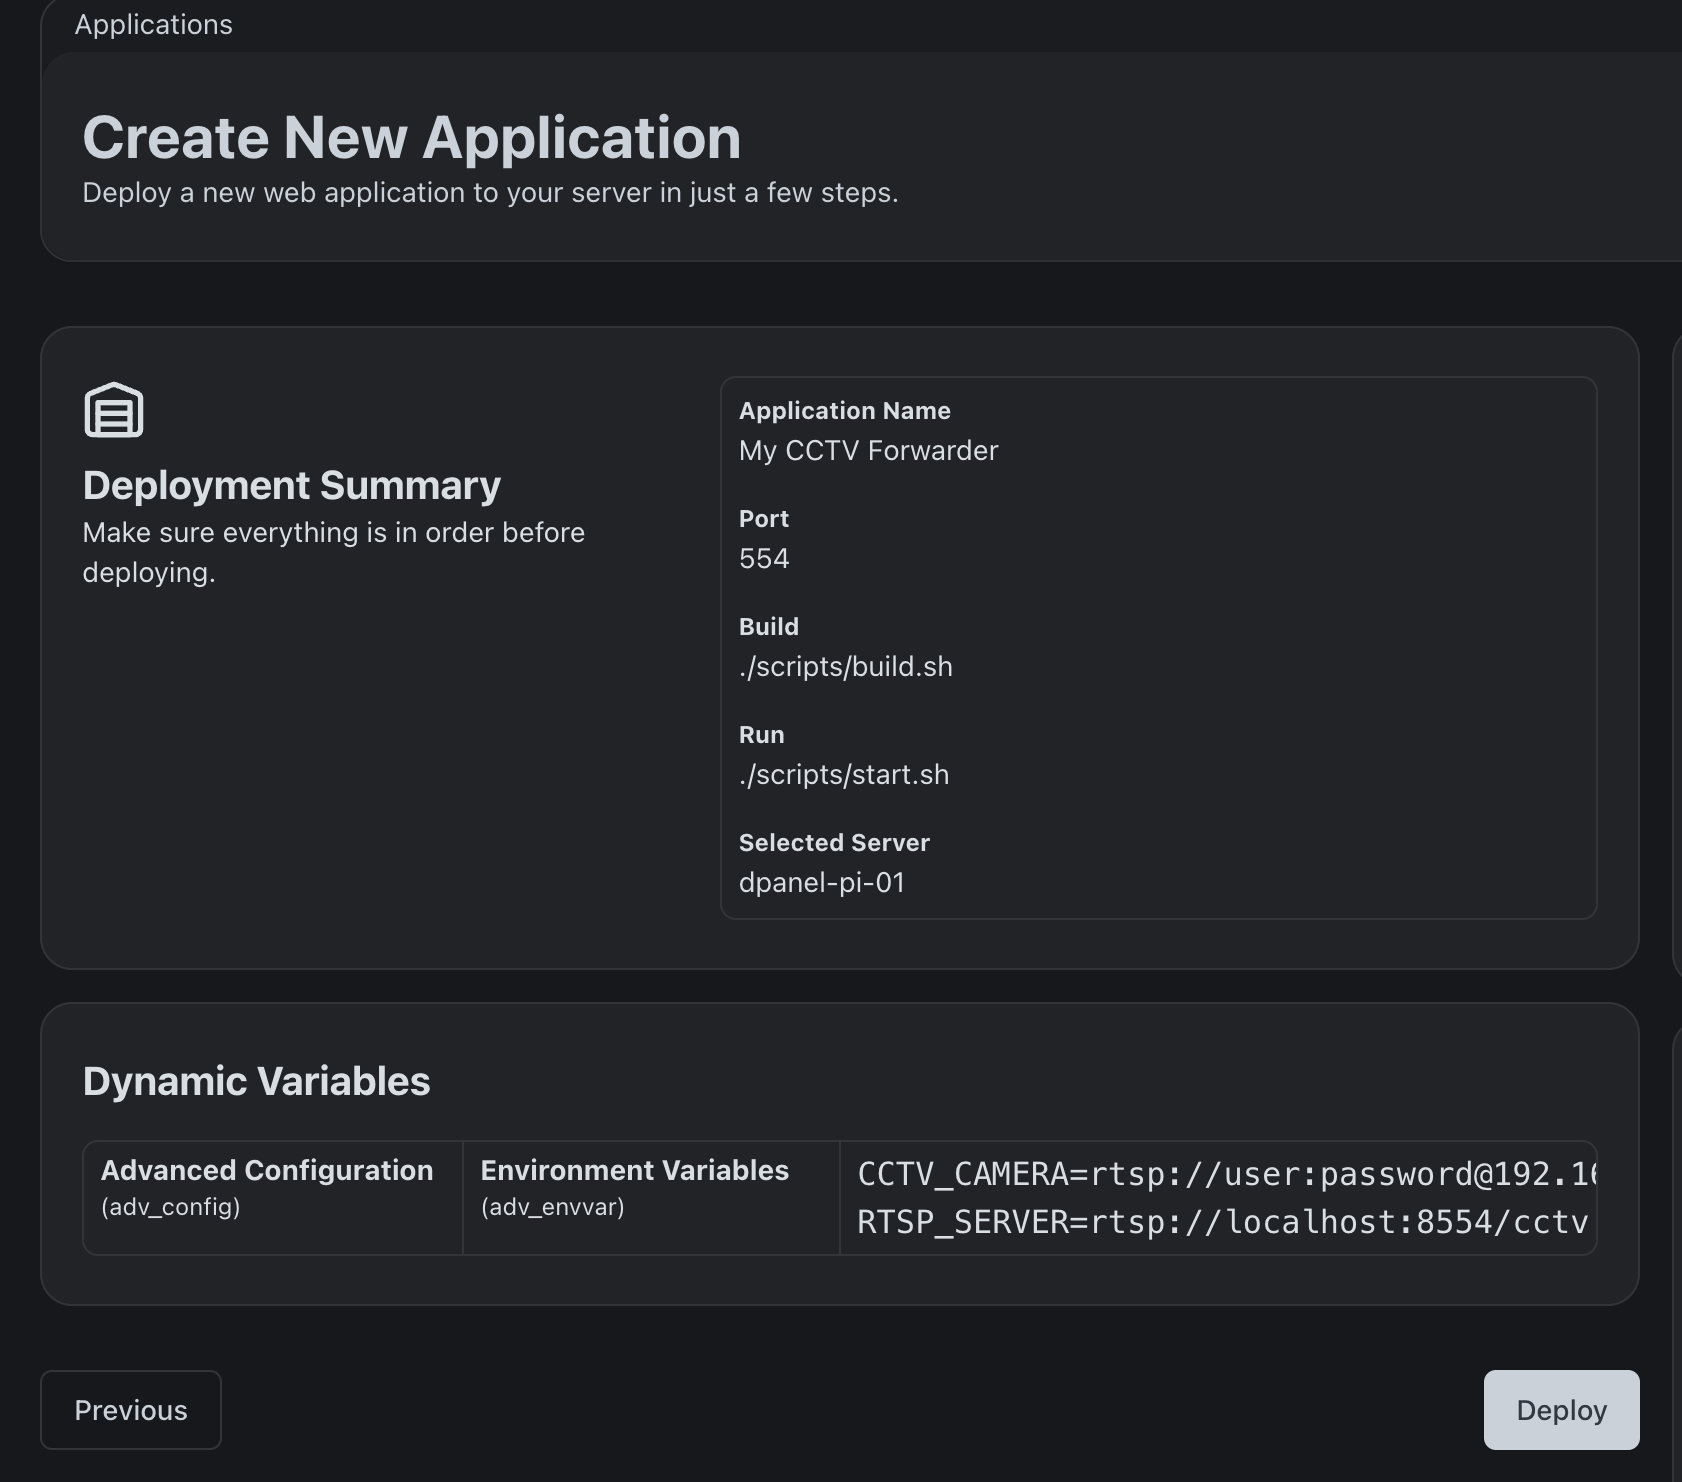
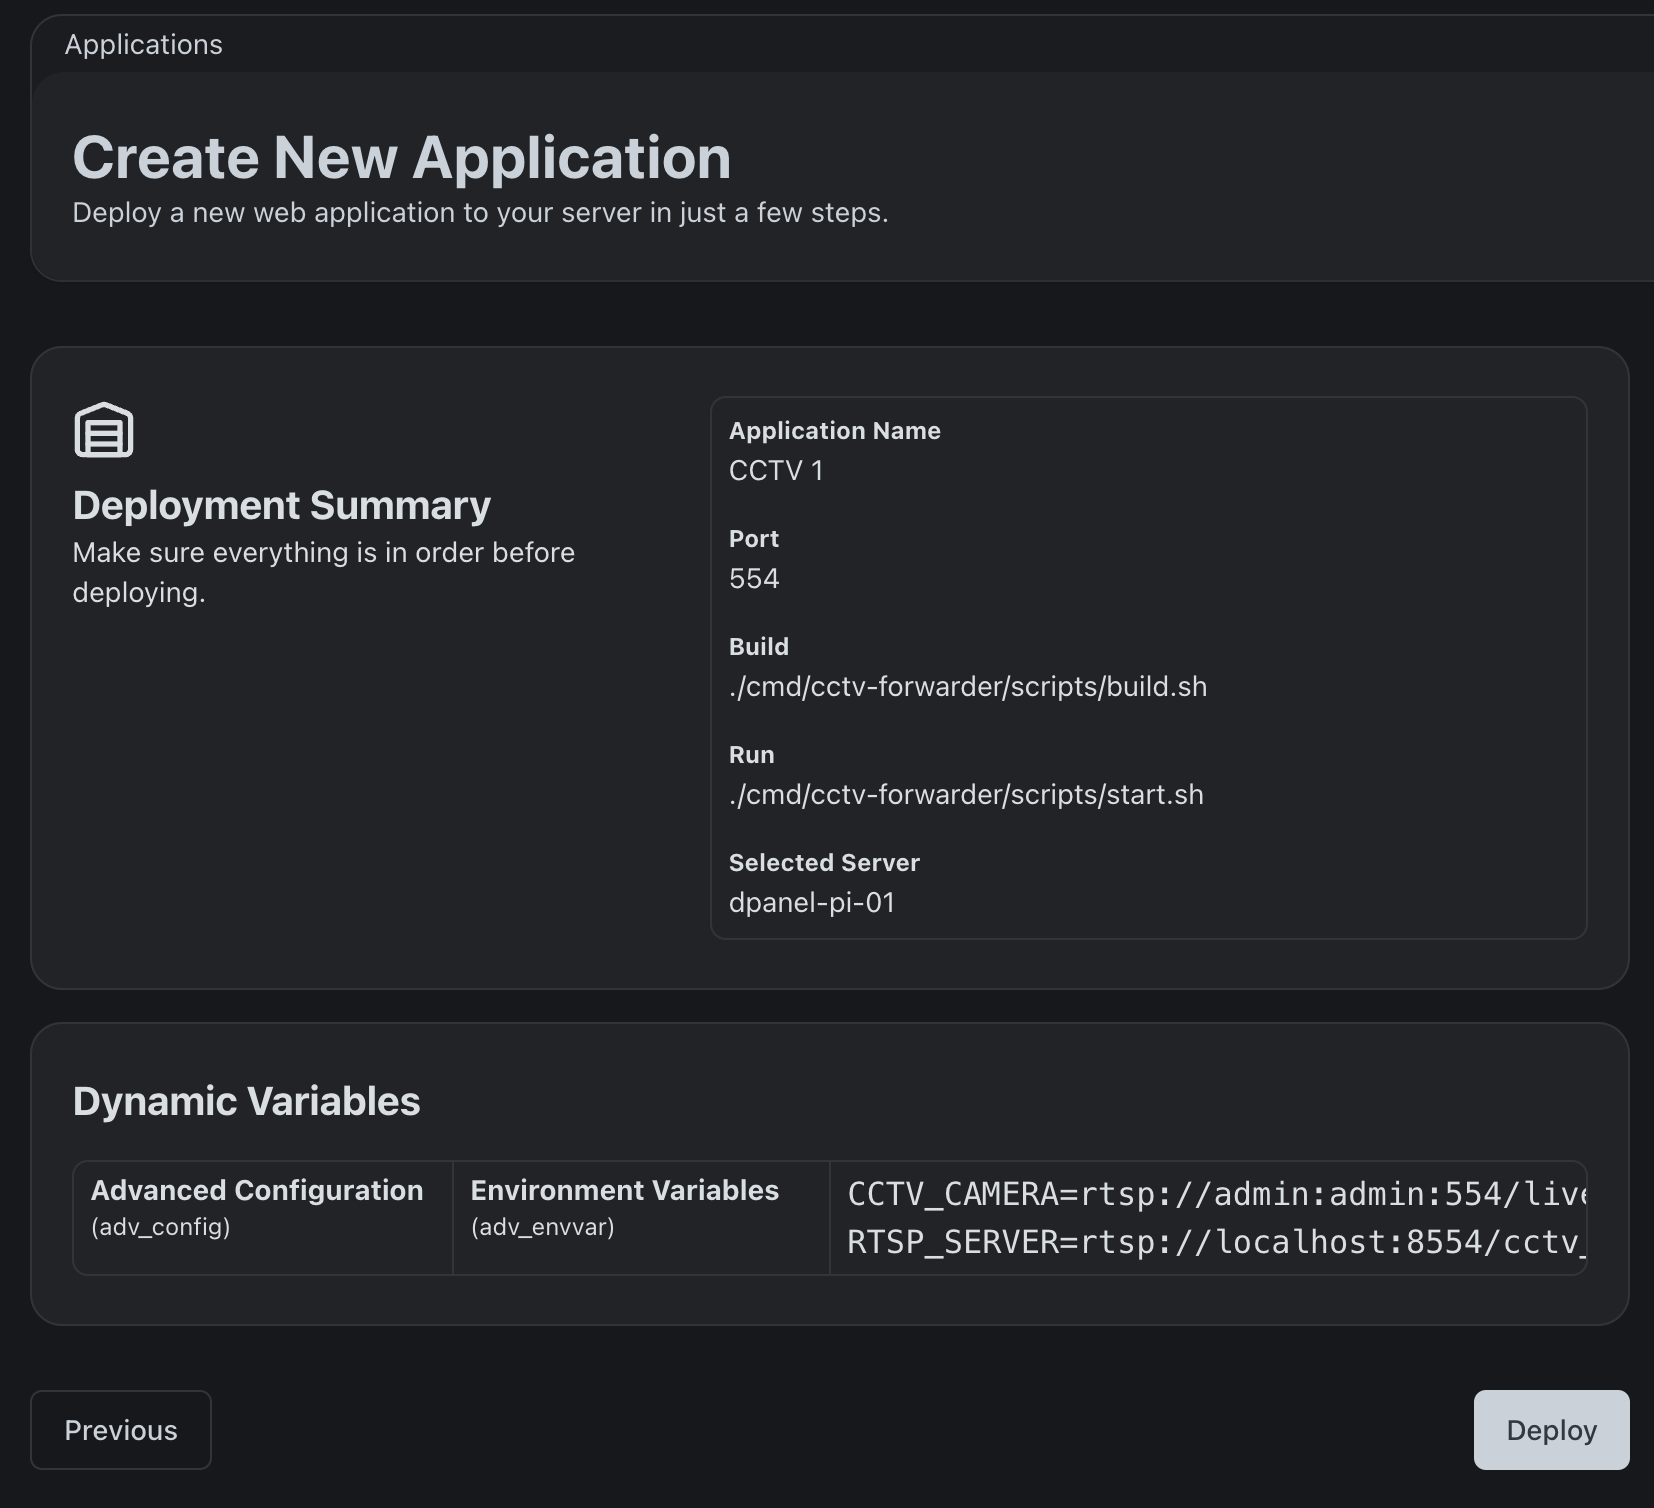
docs: completing document

diff --git a/README.md b/README.md
@@ -8,15 +8,33 @@ Forward CCTV stream to RTSP server with FFMPEG, and expose it with MediaMTX.
 
 ## Installation
 1. Register dPanel account at [https://cloud.terpusat.com/](https://cloud.terpusat.com/).
-2. Create a new application at [https://cloud.terpusat.com/application](https://cloud.terpusat.com/application).
-3. Select this repository as the application source.
+2. Create application for each components at [https://cloud.terpusat.com/application](https://cloud.terpusat.com/application).
+3. Select this repository as source for each component (**Media Server, CCTV Camera, CCTV Dashboard**).
 ![Application Source](assets/select-repo.png)
-4. Set the application data follow the image below:
-![Application Data](assets/fill-data.png)
-4. Set the application environment variables:
+3. Set the application data for Media Server:
+![Media Server](assets/fill-data-mediaserver.png)
+4. Set the application data for each CCTV camera:
+![CCTV Camera](assets/fill-data-cctv.png)
+5. Set the application environment variables for each CCTV camera:
     - `CCTV_CAMERA`: CCTV stream URL.
     - `RTSP_SERVER`: RTSP server URL.
-
 ![Environment Variables](assets/env-vars.png)
-5. Click "Deploy".
+6. Set application data for CCTV Dashboard:
+![Dashboard](assets/fill-data-dashboard.png)
+7. Click "Deploy" for each component.
 ![Click Deploy](assets/click-deploy.png)
+8. Check the application status.
+![Application Status](assets/result.png)
+
+
+## Appendix
+
+This CCTV ecosystem runs under tunnel server and client installed in VPS and Raspberry Pi through dPanel. You can buy VPS from any provider, but we recommend [BiznetGio](https://biznetgio.com/) with IDR 50K/month. Then, install dPanel tunnel server in the VPS:
+- Tunnel Server: [https://github.com/devetek/tunnel-server](https://github.com/devetek/tunnel-server)
+
+Now, you can install dPanel tunnel client in your local machine (Raspberry Pi):
+- Tunnel Client: [https://github.com/devetek/tuman](https://github.com/devetek/tuman)
+
+Or you can use public tunnel service if any.
+
+Last but not least. This is just for testing purpose, not production ready!. Do not forget to turn off your CCTV when you leave.
